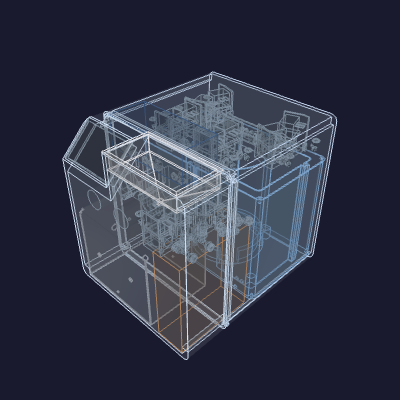
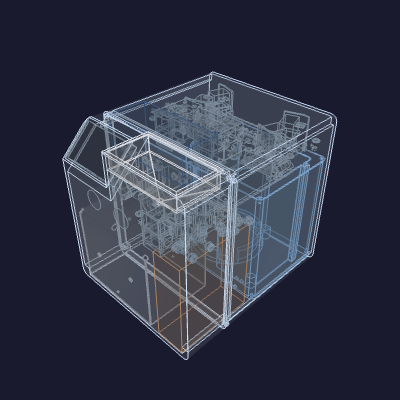
enclosure-assembly: home the narrow power tray in the right-side channel
Place the narrow power tray (PSU turned 90°) rotated 90° about Z into the
right-side channel: its long axis runs along enclosure-Y between the funnel
back and source-select's front; its short axis along enclosure-X between
bag-circuit's right elbows and the +X wall; seated at the short-tray height so
the PSU clears the back corner boss, terminals facing the back panel.

bag-circuit is flipped 180° about X (same footprint) so its right-cluster
elbows drop out of the power-tray floor band — zero clash, verified part-by-
part (tray vs all parts/walls/funnel; flipped bag vs all). Envelope-neutral:
the tray sits inside the existing bbox, so the box halves are unchanged.

Changed region(s): [[0.51, 0.3, 0.75, 0.51], [0.36, 0.24, 0.51, 0.39], [0.51, 0.42, 0.54, 0.45]]

diff --git a/hardware/printed-parts/enclosure/enclosure-assembly/_contents.py b/hardware/printed-parts/enclosure/enclosure-assembly/_contents.py
@@ -37,6 +37,8 @@ TRAY_STEPS = {
     "bib-gate":      _VM / "bib-gate-tray"      / "bib-gate-assembly.step",
     "nozzle-gate":   _VM / "nozzle-gate-tray"   / "nozzle-gate-assembly.step",
 }
+# Zone-B AC/PSU shelf — the wide-shallow narrow variant (PSU turned 90°).
+POWER_ASSEMBLY = _hw / "printed-parts" / "electronics" / "narrow-power-tray" / "narrow-power-assembly.step"
 
 # --- Placeholder dimensions ----------------------------------------------
 # Condenser + fan harvested from the donor ice maker. Two dimensions match
@@ -83,6 +85,7 @@ COLORS = {
     "bag-circuit":       cq.Color(0.90, 0.66, 0.32),
     "bib-gate":          cq.Color(0.62, 0.47, 0.82),
     "nozzle-gate":       cq.Color(0.84, 0.42, 0.42),
+    "power-tray":        cq.Color(0.80, 0.50, 0.20),
 }
 
 
@@ -152,9 +155,21 @@ def build():
     # band (z = cond_top_z), front-to-back — bib-gate at the front, nozzle-gate
     # behind it — under the SeaFlo and the hollow hopper funnel, whose thin cone
     # leaves the volume around it free.
-    placed["bag-circuit"]   = _at(_load(TRAY_STEPS["bag-circuit"]),     0.0, 161.0, back_top_z)
+    # bag-circuit is flipped 180° about X (elbows pointing down), same footprint,
+    # so its right-cluster elbows drop out of the power-tray floor band beside it.
+    bag = _rot(_load(TRAY_STEPS["bag-circuit"]), (1, 0, 0), 180.0)
+    placed["bag-circuit"]   = _at(bag,                                  0.0, 161.0, back_top_z)
     placed["source-select"] = _at(_load(TRAY_STEPS["source-select"]),  0.0, 238.0, back_top_z)
     placed["bib-gate"]      = _at(_load(TRAY_STEPS["bib-gate"]),      154.0,   0.0, cond_top_z)
     placed["nozzle-gate"]   = _at(_load(TRAY_STEPS["nozzle-gate"]),   164.0,  78.0, cond_top_z)
+
+    # --- Narrow power tray (Zone-B AC/PSU shelf), turned 90° about Z so the Mean
+    # Well PSU's long axis lies along enclosure-Y. It threads the right-side
+    # channel: along Y between the funnel back and source-select's front; along X
+    # between bag-circuit's right elbows and the +X wall; resting at the short-tray
+    # height so the PSU clears the back corner boss. Terminal ends face the back
+    # panel (the C14 inlet).
+    pw = _rot(_load(POWER_ASSEMBLY), (0, 0, 1), 90.0)
+    placed["power-tray"]    = _at(pw, 207.0, 85.0, 244.0)
 
     return {n: (s, COLORS[n]) for n, s in placed.items()}
